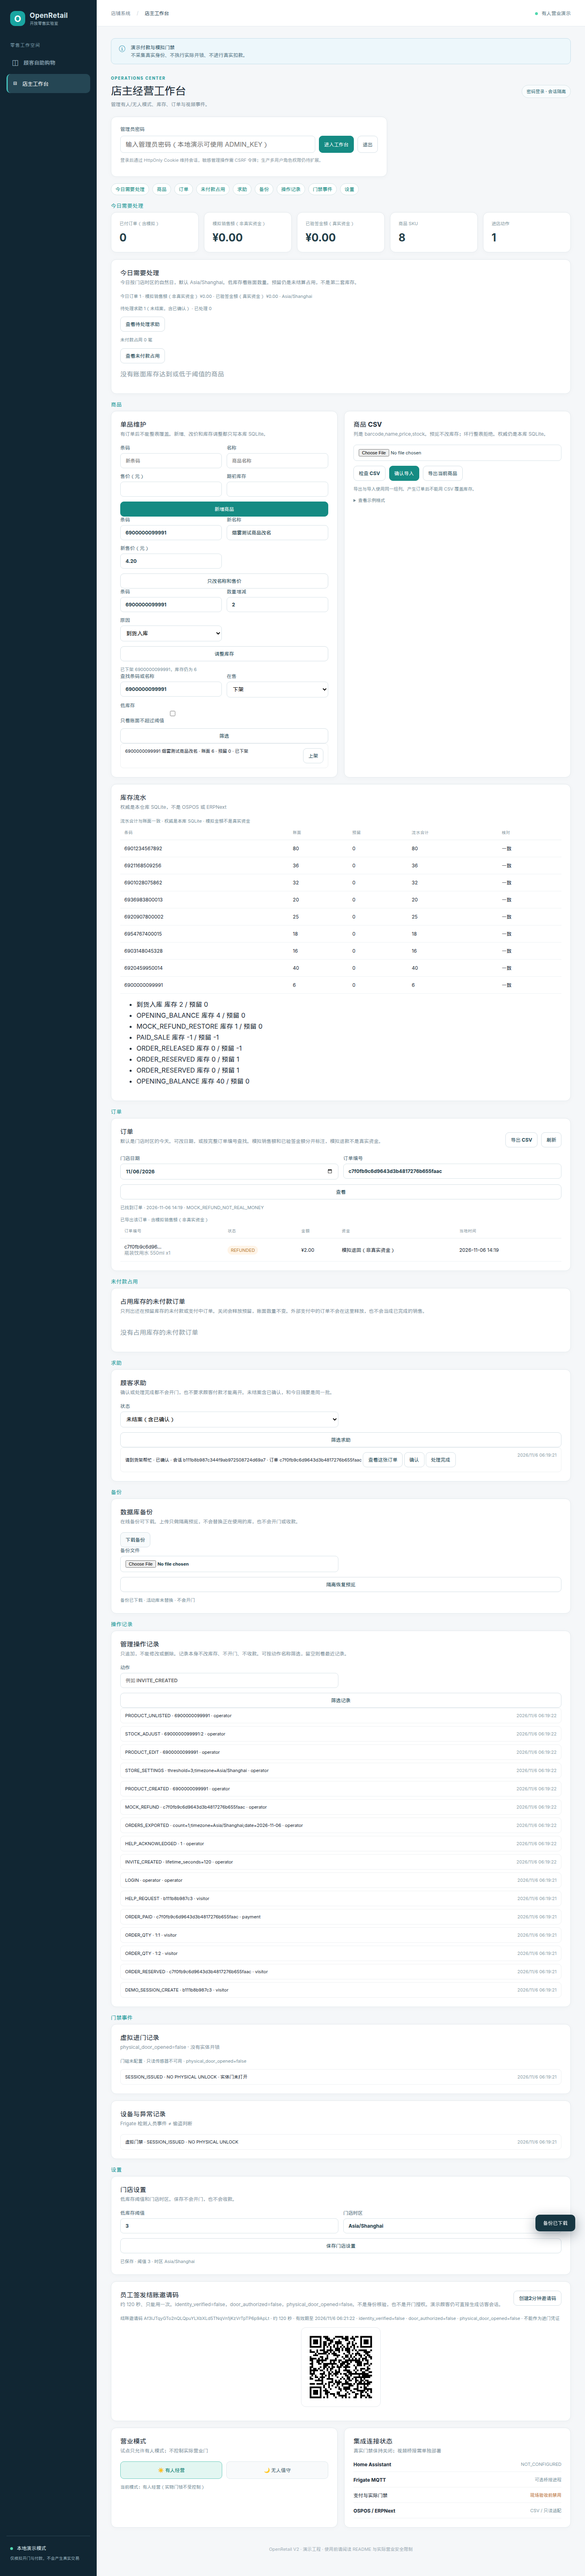
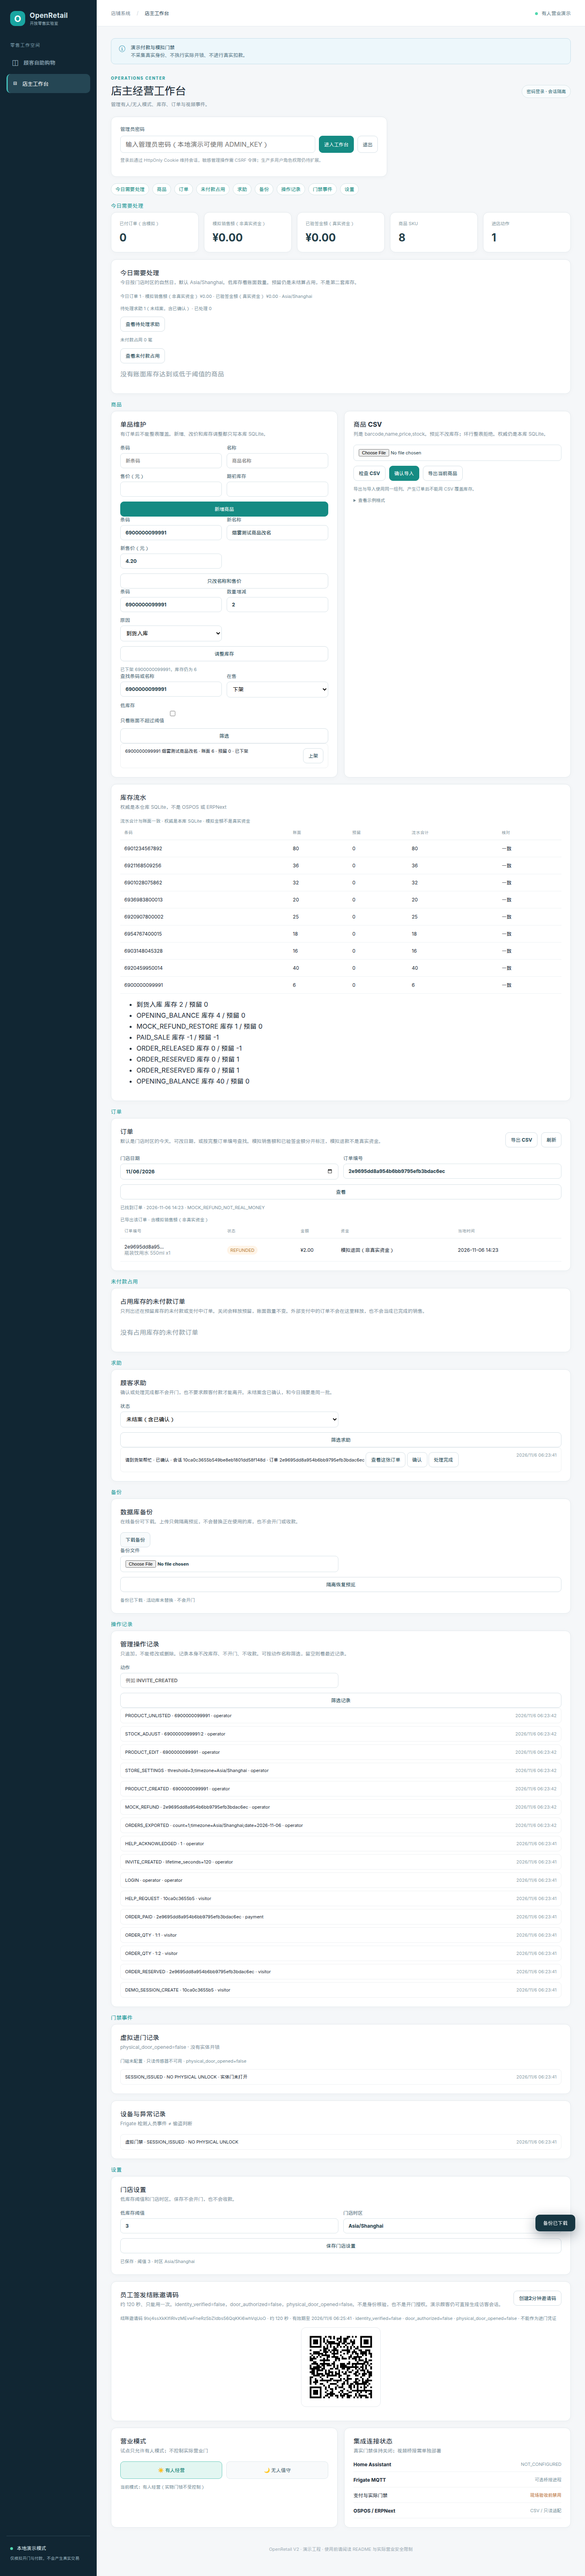
Ignore a second invite click while the first create is in flight.
A later click can still issue another code after the first one finishes, and the audit row still stores only the lifetime.

Changed region(s): [[0.875, 0.656, 0.9375, 0.781], [0.5312, 0.906, 0.6562, 0.9372]]

diff --git a/web/app.js b/web/app.js
@@ -1,6 +1,6 @@
 'use strict';
 const $=id=>document.getElementById(id);
-const state={products:[],cart:new Map(),token:sessionStorage.getItem('retail_guest')||'',csrf:'',orderId:'',lastOrderId:'',orderTotal:null,orderLines:null,paying:false,helping:false,paymentPollId:null,paymentProvider:'MOCK_ONLY',demo:true,inviteRequired:false,scanner:null,scanTimer:null};
+const state={products:[],cart:new Map(),token:sessionStorage.getItem('retail_guest')||'',csrf:'',orderId:'',lastOrderId:'',orderTotal:null,orderLines:null,paying:false,helping:false,issuing:false,paymentPollId:null,paymentProvider:'MOCK_ONLY',demo:true,inviteRequired:false,scanner:null,scanTimer:null};
 const money=cents=>'¥'+(Number(cents||0)/100).toFixed(2);
 const esc=s=>String(s??'').replace(/[&<>"']/g,c=>({'&':'&amp;','<':'&lt;','>':'&gt;','"':'&quot;',"'":'&#39;'}[c]));
 const time=t=>t?new Date(t*1000).toLocaleString('zh-CN'):'—';
@@ -85,9 +85,13 @@ if(inviteFromUrl){history.replaceState(null,'',location.pathname);$('invite-toke
  state.token=r.guest_token;sessionStorage.setItem('retail_guest',state.token);$('invite-token').value='';
  $('entry-result').textContent='结账会话已领取；这不是进店权限。';await showEntryStatus();await loadProducts();toast('结账会话已激活');armBarcodeField()});}
 $('issue-invite').onclick=()=>run(async()=>{
- const r=await api('/api/admin/checkout-invite',{admin:true,method:'POST'});
- $('invite-result').textContent='结账邀请码 '+r.invite+' · 约 '+(r.lifetime_seconds||120)+' 秒 · 有效期至 '+time(r.expires_at)+' · identity_verified=false · door_authorized=false · physical_door_opened=false · 不能作为进门凭证';
- $('invite-qr').src=r.qr_data_uri;$('invite-qr').hidden=false;
+ if(state.issuing)return;state.issuing=true;$('issue-invite').disabled=true;
+ try{const r=await api('/api/admin/checkout-invite',{admin:true,method:'POST'});
+  if(r.duplicate)return;
+  if(r.identity_verified||r.door_authorized||r.physical_door_opened||r.payment_required_to_leave)throw Error('邀请码不应核验身份或开门');
+  $('invite-result').textContent='结账邀请码 '+r.invite+' · 约 '+(r.lifetime_seconds||120)+' 秒 · 有效期至 '+time(r.expires_at)+' · identity_verified=false · door_authorized=false · physical_door_opened=false · 不能作为进门凭证';
+  $('invite-qr').src=r.qr_data_uri;$('invite-qr').hidden=false;
+ }finally{state.issuing=false;$('issue-invite').disabled=false}
 });
 $('cancel-order-btn').onclick=()=>run(async()=>{if(!state.orderId)return;
  const r=await api('/api/orders/'+state.orderId+'/cancel',{method:'POST',guest:true});

diff --git a/tests/test_invite_inflight.py b/tests/test_invite_inflight.py
@@ -1,0 +1,83 @@
+"""A second invite create is ignored only while the first one is still in flight."""
+import threading
+import anyio
+from httpx import ASGITransport, AsyncClient
+from conftest import visitor
+
+
+def test_overlapping_invite_creates_one_code(client, admin_header):
+    assert client.post('/api/admin/checkout-invite').status_code==401
+    product=client.get('/api/products').json()[0]
+    with client.app.state.db.connect() as conn:
+        stock=conn.execute('SELECT stock,reserved_stock FROM products WHERE id=?',(product['id'],)).fetchone()
+        moves=conn.execute('SELECT COUNT(*) n FROM stock_movements').fetchone()['n']
+        doors=conn.execute('SELECT COUNT(*) n FROM door_events').fetchone()['n']
+    entered=threading.Event()
+    release=threading.Event()
+    def hold():
+        entered.set()
+        assert release.wait(3)
+    client.app.state.hold_invite=hold
+    results=[]
+    async def overlap():
+        transport=ASGITransport(app=client.app)
+        async with AsyncClient(transport=transport,base_url='http://test') as http:
+            async def post(tag):
+                response=await http.post('/api/admin/checkout-invite',headers=admin_header)
+                results.append((tag,response.status_code,response.json()))
+            async def second():
+                for _ in range(100):
+                    if entered.is_set():break
+                    await anyio.sleep(0.01)
+                assert entered.is_set()
+                await post('second')
+                release.set()
+            async with anyio.create_task_group() as tg:
+                tg.start_soon(post,'first')
+                tg.start_soon(second)
+    try:
+        anyio.run(overlap)
+    finally:
+        client.app.state.hold_invite=None
+        release.set()
+    assert len(results)==2
+    bodies={tag:body for tag,_,body in results}
+    assert bodies['first']['duplicate'] is False and bodies['second']['duplicate'] is True
+    assert bodies['second']['invite'] is None
+    code=bodies['first']['invite']
+    assert code and len(code)>=24
+    for body in bodies.values():
+        assert body['identity_verified'] is False and body['door_authorized'] is False
+        assert body['physical_door_opened'] is False and body['payment_required_to_leave'] is False
+        assert body['lifetime_seconds']==120
+    with client.app.state.db.connect() as conn:
+        assert conn.execute('SELECT COUNT(*) n FROM checkout_invites').fetchone()['n']==1
+        audits=conn.execute("SELECT detail FROM audit_events WHERE action='INVITE_CREATED'").fetchall()
+        assert [row['detail'] for row in audits]==['lifetime_seconds=120']
+        assert code not in audits[0]['detail']
+    redeemed=client.post('/api/entry/redeem',json={'invite':code})
+    assert redeemed.status_code==200
+    assert redeemed.json()['identity_verified'] is False and redeemed.json()['door_authorized'] is False
+    assert redeemed.json()['physical_door_opened'] is False
+    later=client.post('/api/admin/checkout-invite',headers=admin_header)
+    assert later.status_code==200 and later.json()['duplicate'] is False
+    assert later.json()['invite']!=code
+    assert later.json()['physical_door_opened'] is False
+    with client.app.state.db.connect() as conn:
+        assert conn.execute('SELECT COUNT(*) n FROM checkout_invites').fetchone()['n']==2
+        audits=conn.execute("SELECT detail FROM audit_events WHERE action='INVITE_CREATED'").fetchall()
+        assert len(audits)==2 and all(row['detail']=='lifetime_seconds=120' for row in audits)
+        assert all(later.json()['invite'] not in row['detail'] for row in audits)
+    direct=client.post('/api/entry')
+    assert direct.status_code==200 and direct.json()['identity_verified'] is False
+    with client.app.state.db.connect() as conn:
+        assert conn.execute("SELECT COUNT(*) n FROM audit_events WHERE action='INVITE_REDEEMED'").fetchone()['n']==1
+        now=conn.execute('SELECT stock,reserved_stock FROM products WHERE id=?',(product['id'],)).fetchone()
+        assert now['stock']==stock['stock'] and now['reserved_stock']==stock['reserved_stock']
+        assert conn.execute('SELECT COUNT(*) n FROM stock_movements').fetchone()['n']==moves
+        assert conn.execute("SELECT COUNT(*) n FROM door_events WHERE result='SIMULATED'").fetchone()['n']==0
+    assert client.get('/api/admin/inventory-ledger',headers=admin_header).json()['balanced'] is True
+    script=__import__('pathlib').Path('web/app.js').read_text(encoding='utf-8')
+    assert 'state.issuing' in script and "$('issue-invite').disabled=true" in script
+    guest=visitor(client)
+    assert client.post('/api/orders/'+'x'*32+'/refund',headers=guest).status_code==404

diff --git a/openretail/main.py b/openretail/main.py
@@ -204,6 +204,8 @@ def create_app(settings:Settings|None=None)->FastAPI:
     app.state.wechat=wechat
     app.state.help_guard=threading.Lock()
     app.state.help_inflight=set()
+    app.state.invite_guard=threading.Lock()
+    app.state.invite_inflight=False
 
     @app.middleware('http')
     async def security_headers(request:Request,call_next):
@@ -418,19 +420,31 @@ def create_app(settings:Settings|None=None)->FastAPI:
     @app.post('/api/admin/checkout-invite')
     def create_checkout_invite(actor:str=Depends(admin)):
         # Staffed checkout token is NOT identity verification or door access.
-        with db.tx() as c:
-            mode=c.execute("SELECT value FROM store_settings WHERE key='mode'").fetchone()['value']
-            if mode!='STAFFED':abort(409,'仅允许有人值守的试点结账')
-            invite=random_token();ts=now()
-            c.execute('INSERT INTO checkout_invites(invite_hash,created_at,expires_at) VALUES(?,?,?)',
-                      (digest(invite),ts,ts+120))
-            db.audit(c,actor,'INVITE_CREATED','lifetime_seconds=120')
-        base=cfg.public_base_url.rstrip('/') if not cfg.demo else 'http://127.0.0.1:8000'
-        url=base+'/?invite='+invite
-        return {'invite':invite,'checkout_url':url,'qr_data_uri':qr_image_data(url),
-                'expires_at':ts+120,'lifetime_seconds':120,'identity_verified':False,
-                'door_authorized':False,'physical_door_opened':False,'payment_required_to_leave':False,
-                'purpose':'STAFFED_CHECKOUT_ONLY','note':'只用于有人值守的结账，不是进店凭证'}
+        with app.state.invite_guard:
+            if app.state.invite_inflight:
+                return {'duplicate':True,'invite':None,'lifetime_seconds':120,'identity_verified':False,
+                        'door_authorized':False,'physical_door_opened':False,'payment_required_to_leave':False,
+                        'purpose':'STAFFED_CHECKOUT_ONLY','note':'只用于有人值守的结账，不是进店凭证'}
+            app.state.invite_inflight=True
+        try:
+            hold=getattr(app.state,'hold_invite',None)
+            if hold:hold()
+            with db.tx() as c:
+                mode=c.execute("SELECT value FROM store_settings WHERE key='mode'").fetchone()['value']
+                if mode!='STAFFED':abort(409,'仅允许有人值守的试点结账')
+                invite=random_token();ts=now()
+                c.execute('INSERT INTO checkout_invites(invite_hash,created_at,expires_at) VALUES(?,?,?)',
+                          (digest(invite),ts,ts+120))
+                db.audit(c,actor,'INVITE_CREATED','lifetime_seconds=120')
+            base=cfg.public_base_url.rstrip('/') if not cfg.demo else 'http://127.0.0.1:8000'
+            url=base+'/?invite='+invite
+            return {'invite':invite,'checkout_url':url,'qr_data_uri':qr_image_data(url),
+                    'expires_at':ts+120,'lifetime_seconds':120,'identity_verified':False,
+                    'door_authorized':False,'physical_door_opened':False,'payment_required_to_leave':False,
+                    'duplicate':False,'purpose':'STAFFED_CHECKOUT_ONLY','note':'只用于有人值守的结账，不是进店凭证'}
+        finally:
+            with app.state.invite_guard:
+                app.state.invite_inflight=False
 
     @app.post('/api/entry/redeem')
     def redeem_checkout_invite(payload:RedeemInvite):

diff --git a/scripts/ui_bridge_smoke.py b/scripts/ui_bridge_smoke.py
@@ -100,8 +100,10 @@ with TestClient(create_app(cfg)) as backend,sync_playwright() as pw:
  p.wait_for_function("(()=>{const t=document.querySelector('#event-list').textContent;return !t.includes('盗窃')&&!t.includes('偷盗')&&!t.includes('未付款离店')})()")
  p.wait_for_function("document.querySelector('#door-lock-note').textContent.includes('physical_door_opened=false')")
  p.wait_for_function("document.querySelector('#door-contact').textContent.includes('门磁未配置') && document.querySelector('#door-contact').textContent.includes('physical_door_opened=false') && !document.querySelector('#door-contact').textContent.includes('已开锁')")
- p.locator('#issue-invite').click()
- p.wait_for_function("document.querySelector('#invite-result').textContent.includes('120') && document.querySelector('#invite-result').textContent.includes('identity_verified=false') && document.querySelector('#invite-result').textContent.includes('door_authorized=false') && document.querySelector('#invite-result').textContent.includes('physical_door_opened=false')")
+ p.evaluate("() => { const b=document.querySelector('#issue-invite'); b.click(); b.click(); }")
+ p.wait_for_function("document.querySelector('#invite-result').textContent.includes('120') && document.querySelector('#invite-result').textContent.includes('identity_verified=false') && document.querySelector('#invite-result').textContent.includes('door_authorized=false') && document.querySelector('#invite-result').textContent.includes('physical_door_opened=false') && document.querySelector('#invite-result').textContent.includes('不能作为进门凭证') && document.querySelector('#invite-qr').hidden===false")
+ with backend.app.state.db.connect() as conn:
+  assert conn.execute('SELECT COUNT(*) n FROM checkout_invites').fetchone()['n']==1
  p.locator('[data-help-status="ACKNOWLEDGED"]').click()
  p.wait_for_function("document.querySelector('#help-list').textContent.includes('已确认')")
  p.wait_for_function("document.querySelector('#ledger-balance').textContent.includes('一致')")

diff --git a/docs/PROJECT_STATUS.md b/docs/PROJECT_STATUS.md
@@ -4,6 +4,18 @@
 
 完全无人值守经营仍是 **NOT_APPROVED**。示例配置里的真实支付和实体开锁都是关闭的。
 
+## 本增量（邀请码进行中忽略第二次点击）
+
+已在代码和测试里做到，并在本机复跑：
+
+- 「创建2分钟邀请码」在第一次请求还没结束时，再点一次不会再发一张邀请码，也不会再写一条 `INVITE_CREATED`。第一次完成后可以再为下一位顾客发一张。
+- 页面仍显示这一张码、约 120 秒、identity_verified=false、door_authorized=false、physical_door_opened=false，并写明不能作为进门凭证。二维码仍会出现。`INVITE_CREATED` 仍只记 `lifetime_seconds=120`，不记邀请码。
+- 领取这张未使用的码仍得到会话，三个标志仍是 false。演示「生成访客会话」不需要邀请码，也不写 `INVITE_REDEEMED`。这条路径不改账面或预留，不写库存流水，不开门，不调用支付机构。
+
+`/tmp/openretail-venv/bin/python -m pytest -q`（工作目录 `/workspace`，Python 3.12.3）：**83 passed，1 warning，9.37s，退出码 0**。警告仍是 Starlette 的 `httpx` TestClient 弃用提示。83 = 上一轮 82 + 本增量 1。
+
+`scripts/ui_bridge_smoke.py` 在去掉密钥环境变量后退出码 0。顾客没有领取邀请码，仍用「生成访客会话」完成 ¥2.00 模拟支付，并含「模拟支付成功 · 非真实资金 · 已扣库存」。管理页对「创建2分钟邀请码」连点两次后只留下一张未使用的邀请码，结果含 120 秒和三个 false，并显示二维码。390 宽 `scrollWidth` 390，1440 宽 `scrollWidth` 1440，`pageerror` 为空。这仍是 Chrome 到 TestClient 的桥，不是真机，也不是真实收款。这条 PR 仍未合并。
+
 ## 本增量（求助进行中忽略第二次点击）
 
 已在代码和测试里做到，并在本机复跑：
